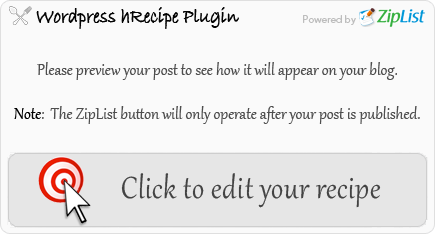
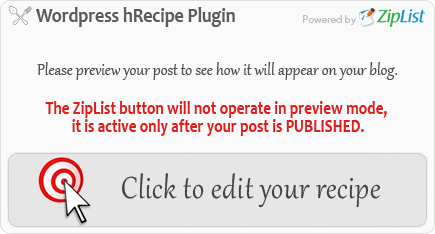
New zlrecipe-placeholder.png image from Geoff for v1.3 release (tested on dev as 1.2.3 build).

Changed region(s): [[0.0299, 0.4188, 0.9563, 0.5983], [0.0598, 0.0299, 0.5678, 0.1197]]

diff --git a/plugin/zlrecipe.php b/plugin/zlrecipe.php
@@ -4,7 +4,7 @@ Plugin Name: ZipList Recipe Plugin
 Plugin URI: http://www.ziplist.com/recipe_plugin
 Plugin GitHub: https://github.com/Ziplist/recipe_plugin
 Description: A plugin that adds all the necessary microdata to your recipes, so they will show up in Google's Recipe Search
-Version: 1.2.2
+Version: 1.2.3
 Author: ZipList.com
 Author URI: http://www.ziplist.com/
 License: GPLv2 or later
